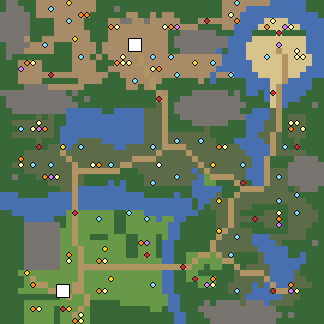
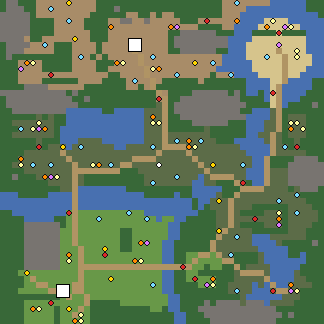
Bagna: runda 9 planszy — straże przy kopalni pokeballi, brodzie i zakątku SW, garb nagród w środku, ekran wroga odchudzony
Straż z łąki (24,42) pod kopalnię pokeballi (17,42), straż brodu na
brzeg (11,35), straż zakątka SW na (8,50). Stosy z doliny i rubieży
przy trakcie w środkowym bagnie i nad jeziorem. Kałuże jednopolowe
w las, pas drzew w dolinie skrócony. 119 obiektów co 10,7 pola, pasy
21/25/31/22/20, bez bitwy 23 %. probe-misja OK.

Claude-Session: https://claude.ai/code/session_01BGiaZhgTwDgLbUxsH7vpi6

diff --git a/src/data/plansza-teren-bagna.ts b/src/data/plansza-teren-bagna.ts
@@ -17,12 +17,12 @@ export const TEREN = [
   '#####TTTTjjjjjjTTTjjjjjjjjjjTT######TTT~~~TTTT,TTTT~~~',
   '####jTTjjjjjjjjTTTjjjjjjjjjjT#########~~~~,,,,,,,,,~~~',
   'T####jjjjTTTjjjjTjjjjj=jjjjjT#########~~~,,,,,,,,,,~~~',
-  'T###jjjjjTTTjjjjTjjjjj=jjjjjTT######~T~~~,,,,,=,,,,~~~',
+  'T###jjjjjTTTjjjjTjjjjj=jjjjjTT######TT~~~,,,,,=,,,,~~~',
   'T#TTTTTTTTTTjjjTjTjjjjj=jjjjjjjjjjjjj~~~~,,,,,,=,,,,~~',
   'TTTjjjjTTTTTjjjjTTTjjjj=jjjjjjjjjjjjj~~~~~,,,,,=,,,,~~',
   'TTTjjjjTTTTTjjjjTTjjjjjj=jjjjjjjjjjj~~~~~~,,,,,=,,,~~~',
-  'TTTjjjjjjjjjjjjjjjTTjjjj=jjjjjjjjjj~jjj~~~~,,,,=,,~~~~',
-  'TTTjjjjTTTTTTjjjjTTTTjjjj=jTTTTTTjT~TTTTT~~~~,,=~~~~TT',
+  'TTTjjjjjjjjjjjjjjjTTjjjj=jjjjjjjjjjTjjj~~~~,,,,=,,~~~~',
+  'TTTjjjjTTTTTTjjjjTTTTjjjj=jTTTTTTjTTTTTTT~~~~,,=~~~~TT',
   'TTTT####jjjjjjTTTTTTTjjTj=TTTTTTTTTTTTTTT~~~~,=~~~~~TT',
   '###########T#TTTTTTTTTTTTT=jTTTT######T#T~~T~,=~~~~TTT',
   'T###########TT#TTTTTTTTTTTj=TT##########TTTT~,=~~~TTTT',
@@ -37,21 +37,21 @@ export const TEREN = [
   'TTTTbbbbbb=bbbbbbbbbbbbbbb=bbbb=bbbbbbbbb~~~~=bbbbbTTT',
   'TTTbbbbbbbb=bbbbbbbbbb====bbbbbb=bbbbbbbbb~~=TTTT####T',
   'TTbbbbbbbbbb=bbbbbbb==bbbbbbbbbbb=bbbbbbbb~~=TTT######',
-  'TTTTbbbbbbbb========TTTbbbbbbbbb~b=bbbbbb~~~=bbb######',
-  'TT#TTTbbbbbb=bTTTTTTTTTTbbbbbbbbb~.====bb~~~=bbb######',
-  'TTTTTTTTbbbb=bTTTT~T~TTTbbbbbbbb~~..TTT=bT~~=bbb######',
+  'TTTTbbbbbbbb========TTTbbbbbbbbbbb=bbbbbb~~~=bbb######',
+  'TT#TTTbbbbbb=bTTTTTTTTTTbbbbbbbbb~b====bb~~~=bbb######',
+  'TTTTTTTTbbbb=bTTTTTTTTTTbbbbbbbb~~bbTTT=bT~~=bbb######',
   'TTTTTTTTTTbb=~~~~~~~~TTTTTTTTTTT~~~~~TTT====bbbbTb###T',
   '~~~TTTTT~~~~=~~~~~~~~~~~TTTTT~TT~~~~bTT=bbbbbbbbbbTTTT',
   '~~~~~~~~~~~~=~~~~~~~~~~~~~~~~~~~T~~bbb=bbbbbbbbbbbbTTT',
   '~~~~~~~~~~~~=~~~~~~~~~~~~~~~~~~~T~Tbbb=bbbTTTTTTbbbbTT',
-  'TT~~~~~~~~~.=......TT...~~~~~~~~~TTTbb=bTTTTbbbTbbbbbT',
-  'TTTT~~~~~TT.=......TT.....~..~~TTTTTbb=bbbbbbbbTbbbbbT',
-  'TTTT######T.=......TT.......~~TTTTTTbb=bTTTTbbbTbbbbTT',
-  'TTTT######..=......TT.......~~TTTTTTb=bbbbTTTTTTbbbTTT',
-  'TTTT######..=..TTT...TT...T.~~TTTTTT=bbbbb~~~bbbbbbTTT',
-  'TTTT######..=........TT...T~~TTTTTT=bbbbbb~~~~bTTTTT#T',
-  'TTTT######...=.......TT...T~~TTTTTT=bbbbbbb~~~~~TTTTTT',
-  'TTTT######...=.......TT.=.T~~TT..==.=bbTTTTb~~~~TT~TTT',
+  'TT~~~~~~~~~.=...........~~~~~~~~~TTTbb=bTTTTbbbTbbbbbT',
+  'TTTT~~~~~TT.=.............~..~~TTTTTbb=bbbbbbbbTbbbbbT',
+  'TTTT######T.=...............~~TTTTTTbb=bTTTTbbbTbbbbTT',
+  'TTTT######..=.......TT......~~TTTTTTb=bbbbTTTTTTbbbTTT',
+  'TTTT######..=.......TT......~~TTTTTT=bbbbb~~~bbbbbbTTT',
+  'TTTT######..=.......TT.....~~TTTTTT=bbbbbb~~~~bTTTTT#T',
+  'TTTT######...=......TT.....~~TTTTTT=bbbbbbb~~~~~TTTTTT',
+  'TTTT######...=.............~~TT..==.=bbTTTTb~~~~TT~TTT',
   'TTTT######...=.............~~TT.=....==TTTTb~~~~~~~TTT',
   'TTTT######...===================..T..TT=Tbbbb~~~~~TTTT',
   'TTT..........=.............~~TT..TTTTTTb====b~~~~bTTTT',
@@ -102,7 +102,6 @@ export const ROZSTAWIENIE: Array<{
   { x: 11, y: 51, rodzaj: 'kopalnia', strefa: 'dom', surowiec: 'kamien' },
   { x: 18, y: 46, rodzaj: 'kopalnia', strefa: 'dom', surowiec: 'odlamek' },
   { x: 11, y: 43, rodzaj: 'surowiec', strefa: 'dom', surowiec: 'jagoda' },
-  { x: 16, y: 43, rodzaj: 'skrzynia', strefa: 'dom' },
   { x: 4, y: 45, rodzaj: 'kopalnia', strefa: 'dom', surowiec: 'jagoda' },
   { x: 24, y: 36, rodzaj: 'budynek', strefa: 'dom', budynek: 'oboz-treningowy' },
   { x: 21, y: 35, rodzaj: 'budynek', strefa: 'dom', budynek: 'gniazdo' },
@@ -127,10 +126,8 @@ export const ROZSTAWIENIE: Array<{
   { x: 26, y: 27, rodzaj: 'jasnowidz', strefa: 'pogranicze' },
   { x: 49, y: 9, rodzaj: 'surowiec', strefa: 'wroga', surowiec: 'odlamek' },
   { x: 49, y: 8, rodzaj: 'surowiec', strefa: 'wroga', surowiec: 'pokeball' },
-  { x: 21, y: 10, rodzaj: 'surowiec', strefa: 'wroga', surowiec: 'odlamek' },
   { x: 32, y: 10, rodzaj: 'kopalnia', strefa: 'wroga', surowiec: 'kamien' },
   { x: 11, y: 0, rodzaj: 'kopalnia', strefa: 'wroga', surowiec: 'pokeball' },
-  { x: 14, y: 2, rodzaj: 'skrzynia', strefa: 'wroga' },
   { x: 38, y: 12, rodzaj: 'budynek', strefa: 'wroga', budynek: 'osrodek-ewolucji' },
   { x: 29, y: 12, rodzaj: 'budynek', strefa: 'wroga', budynek: 'arena' },
   { x: 26, y: 16, rodzaj: 'potwor', strefa: 'wroga', sila: 'silny' },
@@ -144,9 +141,6 @@ export const ROZSTAWIENIE: Array<{
   { x: 19, y: 10, rodzaj: 'skrzynia', strefa: 'wroga' },
   { x: 20, y: 10, rodzaj: 'surowiec', strefa: 'wroga', surowiec: 'kamien' },
   { x: 39, y: 3, rodzaj: 'skrzynia', strefa: 'wroga' },
-  { x: 38, y: 2, rodzaj: 'surowiec', strefa: 'wroga', surowiec: 'pokeball' },
-  { x: 13, y: 2, rodzaj: 'skrzynia', strefa: 'wroga' },
-  { x: 10, y: 51, rodzaj: 'potwor', strefa: 'dom', sila: 'slaby' },
   { x: 45, y: 48, rodzaj: 'potwor', strefa: 'pogranicze', sila: 'sredni' },
   { x: 36, y: 33, rodzaj: 'kopalnia', strefa: 'pogranicze', surowiec: 'kamien' },
   { x: 22, y: 13, rodzaj: 'budynek', strefa: 'wroga', budynek: 'gniazdo' },
@@ -158,7 +152,6 @@ export const ROZSTAWIENIE: Array<{
   { x: 35, y: 46, rodzaj: 'skrzynia', strefa: 'pogranicze' },
   { x: 35, y: 47, rodzaj: 'surowiec', strefa: 'pogranicze', surowiec: 'jagoda' },
   { x: 34, y: 47, rodzaj: 'artefakt', strefa: 'pogranicze' },
-  { x: 24, y: 42, rodzaj: 'potwor', strefa: 'dom', sila: 'slaby' },
   { x: 25, y: 24, rodzaj: 'budynek', strefa: 'pogranicze', budynek: 'kamienna-wieza' },
   { x: 38, y: 42, rodzaj: 'budynek', strefa: 'pogranicze', budynek: 'portal' },
   { x: 33, y: 23, rodzaj: 'budynek', strefa: 'pogranicze', budynek: 'ranczo' },
@@ -169,23 +162,15 @@ export const ROZSTAWIENIE: Array<{
   { x: 13, y: 24, rodzaj: 'budynek', strefa: 'pogranicze', budynek: 'zrodlo' },
   { x: 49, y: 35, rodzaj: 'budynek', strefa: 'pogranicze', budynek: 'chatka' },
   { x: 25, y: 47, rodzaj: 'budynek', strefa: 'dom', budynek: 'ognisko' },
-  { x: 36, y: 24, rodzaj: 'skrzynia', strefa: 'pogranicze' },
-  { x: 37, y: 24, rodzaj: 'surowiec', strefa: 'pogranicze', surowiec: 'jagoda' },
   { x: 18, y: 4, rodzaj: 'skrzynia', strefa: 'wroga' },
-  { x: 19, y: 4, rodzaj: 'surowiec', strefa: 'wroga', surowiec: 'odlamek' },
   { x: 25, y: 11, rodzaj: 'surowiec', strefa: 'wroga', surowiec: 'jagoda' },
   { x: 26, y: 11, rodzaj: 'skrzynia', strefa: 'wroga' },
   { x: 15, y: 27, rodzaj: 'surowiec', strefa: 'pogranicze', surowiec: 'kamien' },
   { x: 16, y: 27, rodzaj: 'skrzynia', strefa: 'pogranicze' },
   { x: 36, y: 38, rodzaj: 'kopalnia', strefa: 'pogranicze', surowiec: 'jagoda' },
-  { x: 20, y: 9, rodzaj: 'surowiec', strefa: 'wroga', surowiec: 'pokeball' },
-  { x: 16, y: 48, rodzaj: 'skrzynia', strefa: 'dom' },
-  { x: 17, y: 48, rodzaj: 'surowiec', strefa: 'dom', surowiec: 'jagoda' },
-  { x: 17, y: 43, rodzaj: 'surowiec', strefa: 'dom', surowiec: 'pokeball' },
   { x: 11, y: 42, rodzaj: 'skrzynia', strefa: 'dom' },
   { x: 23, y: 40, rodzaj: 'skrzynia', strefa: 'dom' },
   { x: 24, y: 40, rodzaj: 'artefakt', strefa: 'dom' },
-  { x: 5, y: 47, rodzaj: 'skrzynia', strefa: 'dom' },
   { x: 12, y: 53, rodzaj: 'skrzynia', strefa: 'dom' },
   { x: 17, y: 41, rodzaj: 'kopalnia', strefa: 'dom', surowiec: 'pokeball' },
   { x: 16, y: 36, rodzaj: 'budynek', strefa: 'dom', budynek: 'drzewo-wiedzy' },
@@ -197,7 +182,6 @@ export const ROZSTAWIENIE: Array<{
   { x: 40, y: 30, rodzaj: 'potwor', strefa: 'pogranicze', sila: 'sredni' },
   { x: 42, y: 36, rodzaj: 'potwor', strefa: 'pogranicze', sila: 'sredni' },
   { x: 34, y: 3, rodzaj: 'potwor', strefa: 'wroga', sila: 'silny' },
-  { x: 12, y: 35, rodzaj: 'potwor', strefa: 'dom', sila: 'slaby' },
   { x: 46, y: 5, rodzaj: 'potwor', strefa: 'wroga', sila: 'silny' },
   { x: 44, y: 4, rodzaj: 'skrzynia', strefa: 'wroga' },
   { x: 45, y: 3, rodzaj: 'surowiec', strefa: 'wroga', surowiec: 'kamien' },
@@ -212,8 +196,6 @@ export const ROZSTAWIENIE: Array<{
   { x: 9, y: 29, rodzaj: 'surowiec', strefa: 'pogranicze', surowiec: 'jagoda' },
   { x: 3, y: 26, rodzaj: 'skrzynia', strefa: 'pogranicze' },
   { x: 3, y: 27, rodzaj: 'surowiec', strefa: 'pogranicze', surowiec: 'jagoda' },
-  { x: 27, y: 4, rodzaj: 'surowiec', strefa: 'wroga', surowiec: 'jagoda' },
-  { x: 50, y: 9, rodzaj: 'surowiec', strefa: 'wroga', surowiec: 'odlamek' },
   { x: 18, y: 27, rodzaj: 'budynek', strefa: 'pogranicze', budynek: 'portal' },
   { x: 44, y: 9, rodzaj: 'budynek', strefa: 'wroga', budynek: 'wieza-obserwacyjna' },
   { x: 39, y: 0, rodzaj: 'budynek', strefa: 'wroga', budynek: 'ognisko' },
@@ -222,9 +204,18 @@ export const ROZSTAWIENIE: Array<{
   { x: 8, y: 1, rodzaj: 'budynek', strefa: 'wroga', budynek: 'zrodlo' },
   { x: 8, y: 27, rodzaj: 'budynek', strefa: 'pogranicze', budynek: 'zrodlo' },
   { x: 3, y: 21, rodzaj: 'budynek', strefa: 'pogranicze', budynek: 'chatka' },
-  { x: 28, y: 9, rodzaj: 'budynek', strefa: 'wroga', budynek: 'chatka' },
-  { x: 46, y: 29, rodzaj: 'budynek', strefa: 'pogranicze', budynek: 'ognisko' },
   { x: 49, y: 32, rodzaj: 'budynek', strefa: 'pogranicze', budynek: 'wiatrak' },
+  { x: 17, y: 42, rodzaj: 'potwor', strefa: 'dom', sila: 'slaby' },
+  { x: 11, y: 35, rodzaj: 'potwor', strefa: 'dom', sila: 'slaby' },
+  { x: 8, y: 50, rodzaj: 'potwor', strefa: 'dom', sila: 'slaby' },
+  { x: 22, y: 43, rodzaj: 'skrzynia', strefa: 'dom' },
+  { x: 23, y: 43, rodzaj: 'surowiec', strefa: 'dom', surowiec: 'pokeball' },
+  { x: 31, y: 24, rodzaj: 'skrzynia', strefa: 'pogranicze' },
+  { x: 32, y: 24, rodzaj: 'surowiec', strefa: 'pogranicze', surowiec: 'jagoda' },
+  { x: 31, y: 23, rodzaj: 'skrzynia', strefa: 'pogranicze' },
+  { x: 25, y: 19, rodzaj: 'skrzynia', strefa: 'pogranicze' },
+  { x: 25, y: 20, rodzaj: 'surowiec', strefa: 'pogranicze', surowiec: 'pokeball' },
+  { x: 26, y: 20, rodzaj: 'surowiec', strefa: 'pogranicze', surowiec: 'odlamek' },
 ];
 
 /** Ustawienia misji na tej planszy — patrz `UstawieniaPlanszy` w `src/data/mapy.ts`. */

diff --git a/tools/mapy/bagna.py b/tools/mapy/bagna.py
@@ -738,6 +738,7 @@ def rozstaw(g):
     runda_6(g)
     runda_7(g)
     runda_8(g)
+    runda_9(g)
 
 
 #: Runda 11 (HotA, zwycięzca rundy 10: „nic nie przypomina bagna — stawy małe,
@@ -2069,6 +2070,114 @@ def runda_8(g):
             print('%3d ' % y + ''.join(ob.get((x, y)) or ('o' if _miejsce(g, (x, y, x, y), sucho=True) else m[y][x])
                                         for x in range(BOK)))
     print(f'  runda 8: usunięte {len(zabrane)}, obiektów {len(g.obiekty)}')
+
+
+# --- RUNDA 9 PĘTLI (werdykt ślepego porównania r8: WYGRANA, 23 TAK /
+# 7 CZĘŚCIOWO / 0 NIE: A2, C1, E2, E3, G1, G2, G3) -------------------------
+#  - A2/C1/G2: słaba straż z łąki (24,42) przy kopalni pokeballi (17,42) —
+#    droga kopalnia strzeżona, nisza (23–25, 39–42) to wolna nagroda; para
+#    (16–17, 43) ze strefy tej straży na (22–23, 43) przy trakcie, z dala od
+#    groty odłamków; straż brodu z traktu (12,35) na brzeg (11,35) (strefa
+#    dalej zamyka bród); straż zakątka SW spod dachu kamieniołomu (10,51)
+#    w zakątek (8,50) — jej strefa zamyka jedyne wejście (9,50), a rysunek
+#    kamieniołomu (szerszy niż 3 pola) już na nią nie wchodzi.
+#  - E2 (garb w środku): z doliny stos (16–17, 48) i skrzynia (5,47) → stos
+#    przy trakcie w środkowym bagnie (31–32, 23–24); z pasa 5 skrzynia
+#    (14,2), surowce (38,2) i (50,9) → stos przy trakcie do bramy
+#    (25–26, 19–20), w zatoce nad jeziorem.
+#  - G1: ekran wroga (11–31, 0–17) z 22 do 15: precz (27,4), (19,4),
+#    (13,2), połowa stosu (20,9)/(21,10), chatka (28,9); (14,2) wyjechała.
+#  - E3: kałuże jednopolowe (18,30), (20,30), (36,8), (35,12–13) → las,
+#    (32,28) → bagno, łączka (34–35, 29–30) → bagno.
+#  - F3/G1: piąte ognisko (46,29) w zatoce przy grobli precz; para
+#    (36–37, 24) cztery pola od nowego stosu środka precz (dwa stosy obok
+#    siebie dawały 24 obiekty na ekranie środka).
+#  - G3: pas drzew w dolinie (19–22, 35–43) skrócony do (20–21, 38–41),
+#    kępy (15–17, 39) i (26, 39–42) precz — łąka doliny bez przegródek.
+R9_USUN = [
+    (16, 48), (17, 48), (5, 47),                            # dom → środek
+    (14, 2), (38, 2), (50, 9),                              # pas 5 → środek
+    (27, 4), (19, 4), (13, 2), (20, 9), (21, 10), (28, 9),  # ekran wroga
+    (24, 42), (12, 35), (10, 51),                           # straże G2
+    (16, 43), (17, 43),                                     # para ze strefy straży
+    (46, 29),                                               # piąte ognisko (F3, G1 wschodu)
+    (36, 24), (37, 24),                                     # para tuż obok nowego stosu (G1)
+]
+
+#: Gdzie stają przeniesione: stare pole → nowe pole (wpis ten sam).
+R9_PRZENIES = {
+    (24, 42): (17, 42),
+    (12, 35): (11, 35),
+    (10, 51): (8, 50),
+    (16, 43): (22, 43),
+    (17, 43): (23, 43),
+    # stos przy trakcie w środkowym bagnie (z doliny)
+    (16, 48): (31, 24),
+    (17, 48): (32, 24),
+    (5, 47): (31, 23),
+    # stos przy trakcie do bramy (z pasa 5)
+    (14, 2): (25, 19),
+    (38, 2): (25, 20),
+    (50, 9): (26, 20),
+}
+
+R9_LAS = [(18, 30), (20, 30), (36, 8), (35, 12), (35, 13)]
+R9_BAGNO = [(34, 29), (34, 30), (35, 30)]
+#: Kałuża (32,28) — jedno pole wody dotykające jeziora tylko po skosie.
+R9_KALUZE = [(32, 28)]
+#: Pole drogi po straży (24,42) — bez straży to samotny kawałek bruku.
+R9_BEZ_DROGI = [(24, 42)]
+#: Pas drzew w dolinie: wszystko z prostokąta precz poza (20–21, 38–41).
+R9_PAS = (19, 35, 22, 43)
+R9_PAS_ZOSTAJE = (20, 38, 21, 41)
+R9_KEPY = [(15, 39), (16, 39), (17, 39), (26, 39), (26, 40), (26, 41), (26, 42)]
+
+
+def runda_9(g):
+    m = g.mapa
+    zabrane = dict(_usun(g, R9_USUN))
+    _odswiez(g)
+
+    # --- teren -------------------------------------------------------------
+    zajete = {p for p, _ in g.obiekty} | g.blokada
+    for x, y in R9_LAS:
+        if m[y][x] == '~' and (x, y) not in zajete:
+            m[y][x] = 'T'
+    for x, y in R9_BAGNO:
+        if m[y][x] == '.':
+            m[y][x] = 'b'
+    for x, y in R9_KALUZE:
+        if m[y][x] == '~':
+            m[y][x] = 'b'
+    for x, y in R9_BEZ_DROGI:
+        if m[y][x] == '=':
+            m[y][x] = '.'
+    x0, y0, x1, y1 = R9_PAS
+    zx0, zy0, zx1, zy1 = R9_PAS_ZOSTAJE
+    for y in range(y0, y1 + 1):
+        for x in range(x0, x1 + 1):
+            if zx0 <= x <= zx1 and zy0 <= y <= zy1:
+                if m[y][x] == '.' and (x, y) not in zajete:
+                    m[y][x] = 'T'
+            elif m[y][x] == 'T':
+                m[y][x] = '.'
+    for x, y in R9_KEPY:
+        if m[y][x] == 'T':
+            m[y][x] = '.'
+    _odswiez(g)
+
+    # --- obiekty -----------------------------------------------------------
+    grunt = {'dom': '.', 'pogranicze': 'b', 'wroga': 'j'}
+    for stare, nowe in R9_PRZENIES.items():
+        if stare not in zabrane:
+            print(f'  runda 9: brak obiektu na {stare}')
+            continue
+        if m[nowe[1]][nowe[0]] not in '.,bj=':
+            m[nowe[1]][nowe[0]] = grunt[strefa(*nowe)]
+        g.postaw(nowe, zabrane[stare])
+    _odswiez(g)
+    g.zasyp_odciete(m)
+    print(f'  runda 9: usunięte {len(zabrane)}, obiektów {len(g.obiekty)}')
 
 
 NAGLOWEK = '''// PLIK GENEROWANY — nie poprawiaj ręcznie.

diff --git a/STAN.md b/STAN.md
@@ -172,6 +172,45 @@ pas 18, straże pogranicza na placu). Funkcja `runda_8(g)` po `runda_7`;
   maszynie wisi na „element is not stable" (scena działa, fps jak Polana);
   zrzut zrobiony `page.screenshot` z wycinkiem płótna.
 
+Runda 9 buildera (po werdykcie r8: WYGRANA ślepo, 23 TAK / 7 CZĘŚCIOWO /
+0 NIE: A2, C1, E2, E3, G1, G2, G3). Funkcja `runda_9(g)` po `runda_8`,
+tabele `R9_*` (usunięcia, przeniesienia stare → nowe pole, teren).
+- **A2/C1/G2**: słaba straż z łąki (24,42) → (17,42) przy kopalni pokeballi
+  (17,41) (strefa obejmuje wszystkie pola wejścia kopalni); nisza (23–24, 40)
+  wolną nagrodą, samotny bruk (24,42) → łąka. Para (16–17, 43) ze strefy tej
+  straży → (22–23, 43) przy trakcie (na (19–20, 43) właziła na dach groty
+  (18,46)). Straż brodu z traktu (12,35) → brzeg (11,35): strefa dalej
+  obejmuje (12,34), więc bród zamknięty. Straż zakątka SW (10,51) → (8,50):
+  (9,50) też wchodziło pod rysunek kamieniołomu (szerszy niż 3 pola);
+  strefa (8,50) zamyka jedyne wejście (9,50). Cena: kopalnia kamieni
+  (11,51) jest teraz niestrzeżona (5 kroków od startu).
+- **E2**: z doliny stos (16–17, 48) i skrzynia (5,47) → stos przy trakcie
+  w środkowym bagnie (31,24), (32,24), (31,23); z pasa 5 skrzynia (14,2)
+  i surowce (38,2), (50,9) → stos przy trakcie do bramy (25,19), (25,20),
+  (26,20) nad jeziorem. Pasy [25, 24, 28, 27, 24] → [21, 25, 31, 22, 20].
+- **G1**: ekran wroga (11–31, 0–17) 22 → 15 obiektów (precz (27,4),
+  (19,4), (13,2), (20,9), (21,10), chatka (28,9); (14,2) wyjechała).
+  Ekran (22–42, 27–44) 4 → 3 straże ((30,44) most, (40,30) przesmyk,
+  (42,36) wylot zakątka), 17 obiektów. Para (36–37, 24) obok nowego stosu
+  i piąte ognisko (46,29) precz. Okno przesuwne 21 × 18: maks 23 (było 24
+  z tymi stosami; przy 119 obiektach średnia ~16, więc „≤ 16 wszędzie" przy
+  garbie w środku jest nieosiągalne). Kafle 18 × 18: 10–18.
+- **E3**: kałuże (18,30), (20,30), (36,8), (35,12–13) → las, (32,28) → bagno,
+  łączka (34–35, 29–30) → bagno. **G3**: pas drzew w dolinie (19–22, 35–43)
+  → kępa (20–21, 38–41); kępy (15–17, 39) i (26, 39–42) precz.
+- Liczby: 119 obiektów, co 10,7 pola; budowle 33 + jasnowidz (28,6 %),
+  surowce 26 (21,8 %), skrzynie 23 (19,3 %), artefakty 10 (8,4 %),
+  kopalnie 11 (9,2 %), straże 15 (12,6 %); bez bitwy 23 % (291 pól); do
+  zamku wroga 44 kroki, najdalszy zakątek 63. Plamy < 6 pól (wody/łąki):
+  tylko (31–32, 42–43) przy trakcie za mostem (łąka rozcięta drogą).
+- Sondy: `probe-mapy` Bagna bez ŹLE (ŹLE tła innych plansz — ich wątki),
+  `probe-misja` WSZYSTKO OK, tsc OK. `runda-planszy.sh bagna 5203` dwa
+  razy, oba ze zrzutem bez timeoutu (po pierwszym zrzucie poprawione
+  pozycje straży SW i pary przy grocie).
+- Nierozwiązane: niestrzeżony kamieniołom (11,51) (A2 może to wytknąć);
+  G1 w sensie okna przesuwnego dalej 23; czwarty pas (22) niższy niż drugi
+  (25), garb jest, ale niesymetryczny.
+
 ## Pokémart — sklep z przedmiotami zamiast gildii magów (2026-09-29)
 
 **Co jest.** Plecak trenera przestał się napełniać sam przed każdą bitwą —
